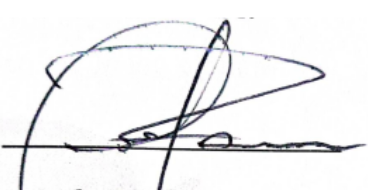
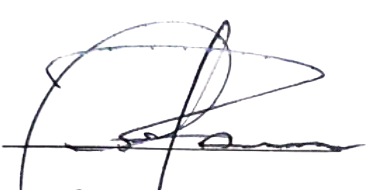
añadiendo a francisco de miranda

diff --git a/src/pages/components/PDFGenerator.js b/src/pages/components/PDFGenerator.js
@@ -4,7 +4,8 @@ import NataliFirma from "/natalifirma.png";
 import JoseFirma from "/jose.png";
 import footer from "/footer.jpg";
 import background from "/background.png";
-import eydisFirma from "/eydis-martinez.jpeg";
+import eydisFirma from "/eydis-martinez.png";
+import franciscoMiranda from "/francisco-miranda.png";
 
 export const generatePDFsForParticipants = (formData) => {
   console.log("generatePDFsForParticipants called with formData:", formData);
@@ -28,6 +29,24 @@ export const generatePDFsForParticipants = (formData) => {
       doc.internal.pageSize.getWidth(),
       doc.internal.pageSize.getHeight()
     );
+
+    // Agregar marca de agua (Francisco de Miranda)
+    const pageWidth = doc.internal.pageSize.getWidth();
+    const pageHeight = doc.internal.pageSize.getHeight();
+    const imgWidth = 250; // Ajustar tamaño según sea necesario
+    const imgHeight = 150;
+
+    doc.saveGraphicsState();
+    doc.setGState(new GState({ opacity: 0.15 })); // Muy baja opacidad
+    doc.addImage(
+      franciscoMiranda,
+      "JPEG",
+      (pageWidth - imgWidth) / 350, // Centrado horizontalmente
+      (pageHeight - imgHeight) / 2, // Centrado verticalmente
+      imgWidth,
+      imgHeight
+    );
+    doc.restoreGraphicsState();
 
     // Agrega la imagen 'mebreteImage' al PDF.
     // Los números representan:
@@ -64,16 +83,13 @@ export const generatePDFsForParticipants = (formData) => {
     doc.setFontSize(12);
     doc.setFont(undefined, "normal");
     doc.text(
-      `En calidad de PARTICIPANTE en el ${formData.tipo_solicitud.toUpperCase()}: ${
-        formData.nombre_solicitud
-      } (MODALIDAD ${formData.modalidad.toUpperCase()}). Evento realizado en ${
-        formData.instalaciones
+      `En calidad de ${(formData.rol || 'participante').toUpperCase()} en el ${formData.tipo_solicitud.toUpperCase()}: ${formData.nombre_solicitud
+      } (MODALIDAD ${formData.modalidad.toUpperCase()}). Evento realizado en ${formData.instalaciones
       } el día ${new Date(formData.dia_emision).toLocaleString("es-ES", {
         day: "2-digit",
       })} de ${new Date(formData.dia_emision).toLocaleString("es-ES", {
         month: "long",
-      })} de ${new Date(formData.dia_emision).getFullYear()}. Duración: ${
-        formData.duracion
+      })} de ${new Date(formData.dia_emision).getFullYear()}. Duración: ${formData.duracion
       }`,
       20,
       120,
@@ -133,17 +149,17 @@ export const generatePDFsForParticipants = (formData) => {
       let baseUrl = import.meta.env.VITE_URL || "https://adiestramiento.netlify.app";
       if (!baseUrl.endsWith('/')) baseUrl += '/';
       const verificationUrl = `${baseUrl}validar?token=${participant.token}`;
-      
+
       doc.setFontSize(10);
       doc.setFont(undefined, "bold");
       doc.setTextColor(0, 100, 200);
       doc.textWithLink('Verificar documento aquí', 20, 15, { url: verificationUrl });
       doc.setTextColor(0, 0, 0);
-      
+
       doc.setFontSize(7);
       doc.setFont(undefined, "normal");
       doc.text(`Token: ${participant.token}`, 20, 25, { maxWidth: 180 });
-      
+
       doc.addImage(participant.qr, "PNG", 225, 10, 50, 50);
     }
 

diff --git a/src/pages/crearCertificado.jsx b/src/pages/crearCertificado.jsx
@@ -33,6 +33,7 @@ export const CrearCertificado = () => {
     dia_emision: new Date().toISOString().split('T')[0],
     tipo_solicitud: 'taller',
     modalidad: 'presencial',
+    rol: 'participante',
     contenido: [],
     participante: [],
   })
@@ -100,6 +101,7 @@ export const CrearCertificado = () => {
         duracion: formData.duracion,
         tipo_solicitud: formData.tipo_solicitud,
         modalidad: formData.modalidad,
+        rol: formData.rol,
         contenido: formData.contenido,
         fecha: new Date().toISOString()
       })
@@ -192,6 +194,21 @@ export const CrearCertificado = () => {
                         <option value="presencial">Presencial</option>
                         <option value="virtual">Virtual</option>
                         <option value="semipresencial">Semipresencial</option>
+                      </select>
+                    </div>
+
+                    <div>
+                      <label className="block mb-1.5 font-semibold text-slate-700 text-sm" htmlFor="rol">
+                        Rol
+                      </label>
+                      <select
+                        id="rol"
+                        value={formData.rol}
+                        onChange={(e) => setFormData({ ...formData, rol: e.target.value })}
+                        className="bg-blue-50 px-4 py-2.5 border-2 border-blue-200 focus:border-blue-500 rounded-xl focus:ring-4 focus:ring-blue-500/10 w-full text-slate-900 transition-all outline-none font-semibold cursor-pointer"
+                      >
+                        <option value="participante">Participante</option>
+                        <option value="facilitador">Facilitador</option>
                       </select>
                     </div>
 

diff --git a/src/pages/validarDocumento.jsx b/src/pages/validarDocumento.jsx
@@ -46,6 +46,7 @@ export const ValidarDocumento = () => {
           modalidad: payload.modalidad,
           nombre_curso_taller: payload.nombre_curso_taller,
           contenido: payload.contenido,
+          rol: payload.rol,
           id: payload.id
         })
         setResultado('✅ Certificado válido')
@@ -221,7 +222,7 @@ export const ValidarDocumento = () => {
                             </div>
                             <div className="grid grid-cols-2 gap-4">
                               <div className="space-y-1">
-                                <p className="text-[10px] font-bold text-slate-400 uppercase tracking-widest">Participante</p>
+                                <p className="text-[10px] font-bold text-slate-400 uppercase tracking-widest">{certificadoInfo.rol || 'Participante'}</p>
                                 <p className="text-slate-800 font-bold leading-none">{certificadoInfo.nombre}</p>
                               </div>
                               <div className="space-y-1">